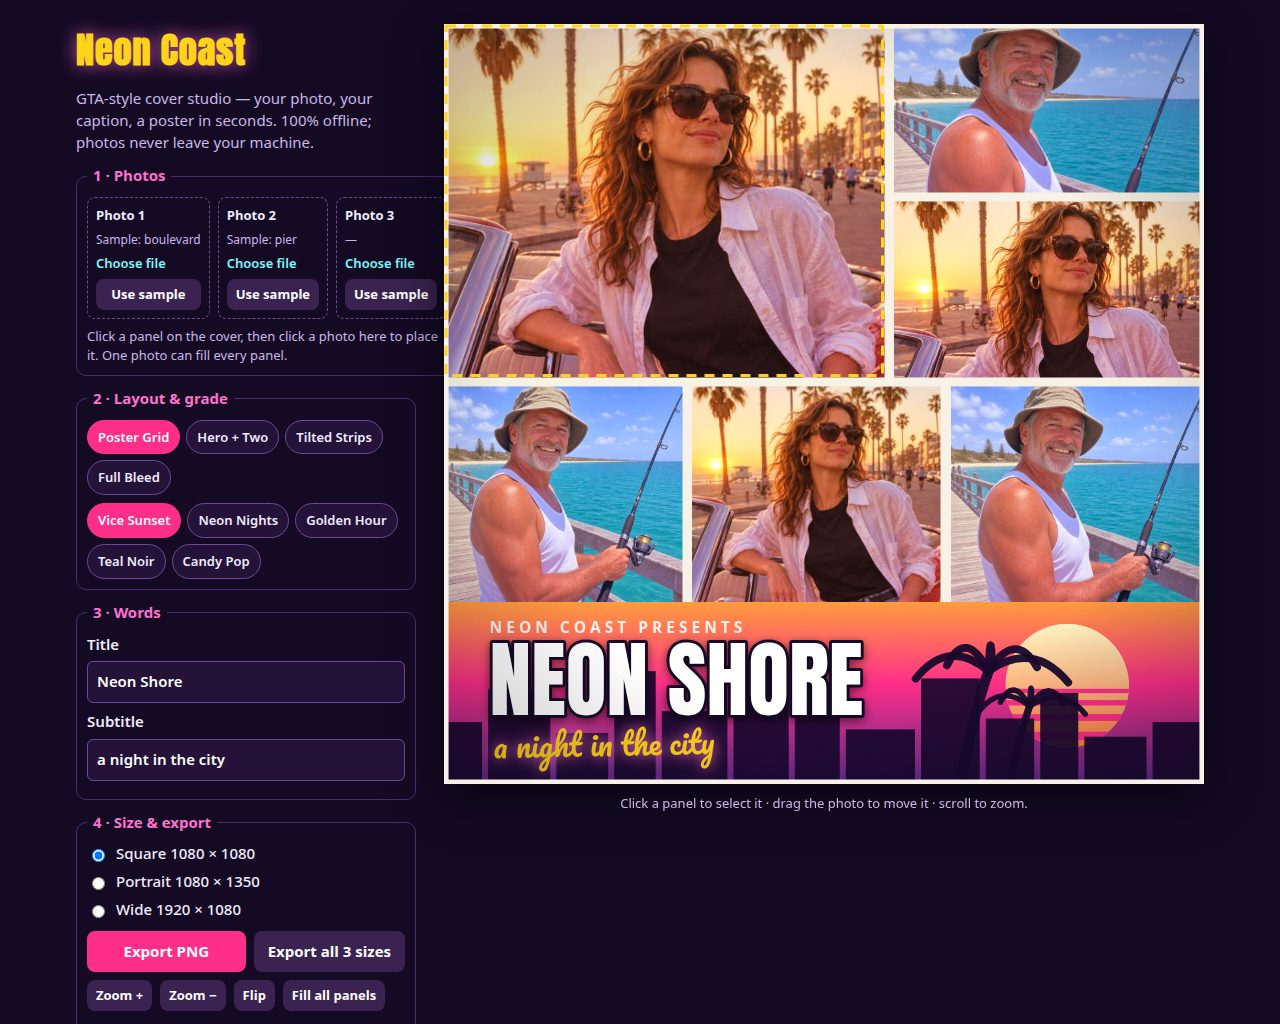
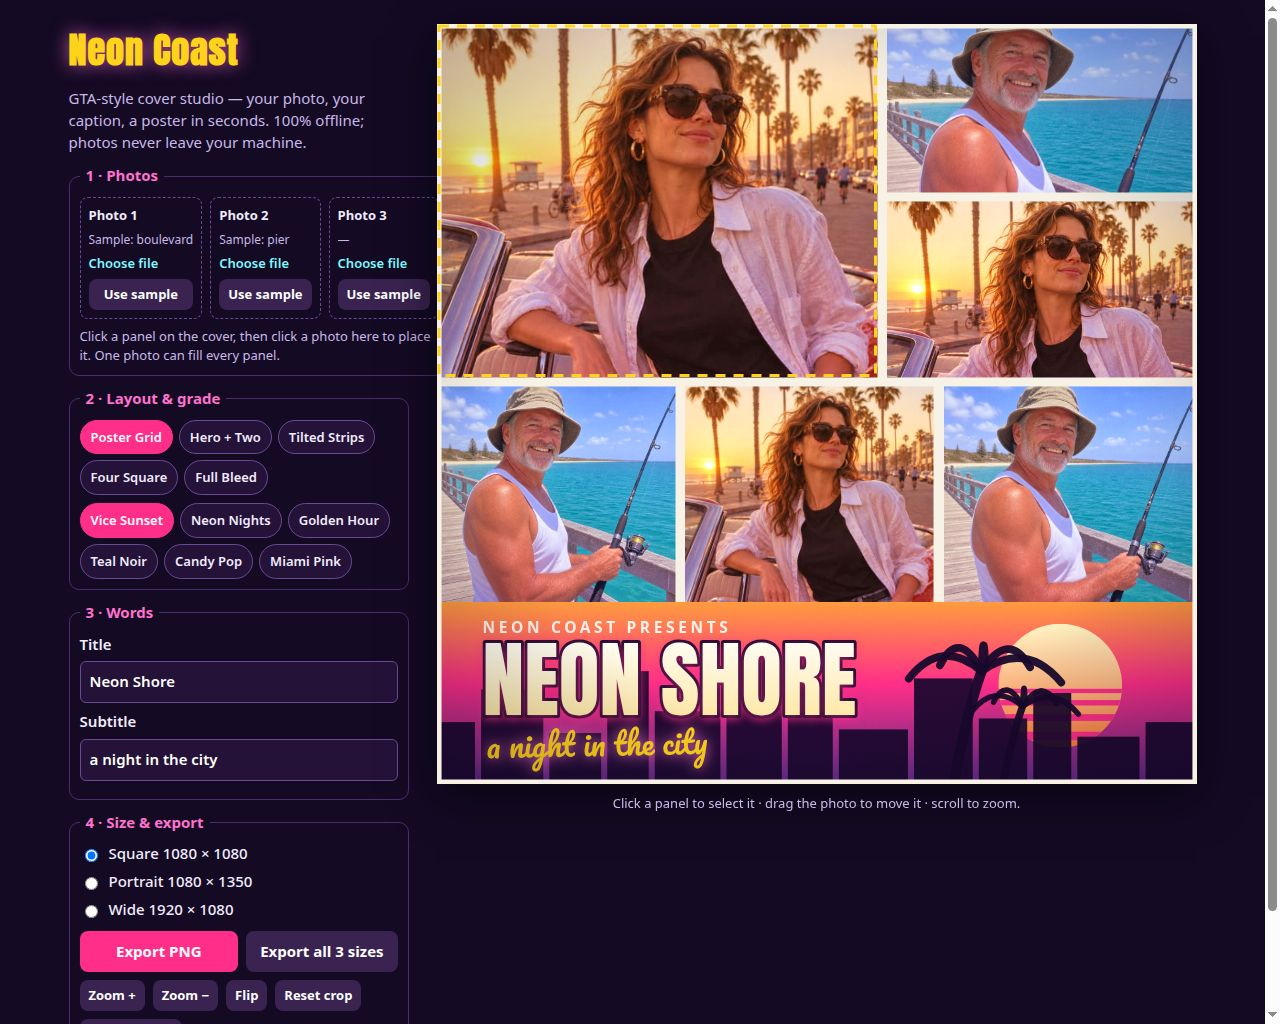
Re-record rebuild: quad layout, Miami Pink grade, two-line titles, reset crop
- cover.js: new Four Square (2x2) layout and Miami Pink grade; title
  wraps onto two balanced lines when one line would shrink too small,
  with the kicker/subtitle repositioned so nothing overlaps; title gets
  a warm gradient fill and magenta glow; kicker uses real letterSpacing
- main.js: Reset crop button for the selected panel; selection outline
  now follows tilted panels' rotation
- index.html/style.css: Reset crop button; focus-visible rings, hover
  states, touch-action none, narrow-window stacking
- shots.js/shots.json: shot 3 is now hero/Miami Pink with a long
  two-line title, shot 4 shows the new quad layout
- main.ts: pre-flight gate-cap validation before writing the dossier
- screenshots regenerated in headless Chromium and inspected visually

diff --git a/app/src/cover.js b/app/src/cover.js
@@ -11,12 +11,14 @@ export const GRADES = {
   gold: { label: 'Golden Hour', sat: 1.20, con: 1.05, wash: 'rgba(255,180,60,0.12)', top: 'rgba(255,200,90,0.10)', bottom: 'rgba(160,60,10,0.18)' },
   noir: { label: 'Teal Noir', sat: 0.85, con: 1.12, wash: 'rgba(0,180,180,0.10)', top: 'rgba(0,60,80,0.14)', bottom: 'rgba(0,0,0,0.30)' },
   candy: { label: 'Candy Pop', sat: 1.50, con: 1.04, wash: 'rgba(255,0,110,0.12)', top: 'rgba(255,120,200,0.14)', bottom: 'rgba(90,0,160,0.20)' },
+  miami: { label: 'Miami Pink', sat: 1.45, con: 1.07, wash: 'rgba(255,0,180,0.12)', top: 'rgba(255,80,200,0.16)', bottom: 'rgba(0,180,220,0.24)' },
 };
 
 export const LAYOUTS = {
   poster: { label: 'Poster Grid', panels: 6 },
   hero: { label: 'Hero + Two', panels: 3 },
   strips: { label: 'Tilted Strips', panels: 3 },
+  quad: { label: 'Four Square', panels: 4 },
   full: { label: 'Full Bleed', panels: 1 },
 };
 
@@ -27,7 +29,11 @@ const PANEL_CELLS = {
   ],
   hero: [[0, 0, 0.64, 1], [0.64, 0, 0.36, 0.49], [0.64, 0.49, 0.36, 0.51]],
   strips: [
-    [0.01, 0.02, 0.34, 0.96, -4], [0.335, 0.02, 0.34, 0.96, 3], [0.66, 0.02, 0.34, 0.96, -3],
+    [0.01, 0.01, 0.34, 0.98, -4], [0.335, 0.01, 0.34, 0.98, 3], [0.66, 0.01, 0.34, 0.98, -3],
+  ],
+  quad: [
+    [0, 0, 0.5, 0.5], [0.5, 0, 0.5, 0.5],
+    [0, 0.5, 0.5, 0.5], [0.5, 0.5, 0.5, 0.5],
   ],
   full: [[0, 0, 1, 1]],
 };
@@ -212,7 +218,46 @@ function drawTitleBand(ctx, band) {
   drawPalm(ctx, x + w * 0.745, y + h * 1.0, h / 150, 'rgba(24, 8, 44, 0.95)');
 }
 
-/** The title lettering: kicker, Anton title, Pacifico subtitle. */
+/** Splits a title into two lines at the word boundary that best balances their
+ *  widths. Returns null when the title has no useful split point. */
+function splitTitle(words, maxW, fontFor) {
+  const parts = words.split(/\s+/).filter(Boolean);
+  if (parts.length < 2) return null;
+  let best = null;
+  for (let cut = 1; cut < parts.length; cut++) {
+    const a = parts.slice(0, cut).join(' ');
+    const b = parts.slice(cut).join(' ');
+    const imbalance = Math.abs(fontFor(a).width - fontFor(b).width);
+    if (!best || imbalance < best.imbalance) best = { lines: [a, b], imbalance };
+  }
+  return best?.lines ?? null;
+}
+
+/** Draws one title line with a warm gradient fill, a dark outline and a soft
+ *  magenta glow, at the given baseline. */
+function drawTitleLine(ctx, text, x, baseline, size) {
+  ctx.font = `${size}px Anton, 'Arial Narrow', sans-serif`;
+  const grad = ctx.createLinearGradient(0, baseline - size, 0, baseline);
+  grad.addColorStop(0, '#ffffff');
+  grad.addColorStop(1, '#ffe9a8');
+  ctx.lineJoin = 'round';
+  ctx.strokeStyle = '#1a0b2e';
+  ctx.lineWidth = Math.max(2, size * 0.07);
+  ctx.shadowColor = 'rgba(255,46,136,0.55)';
+  ctx.shadowBlur = size * 0.10;
+  ctx.shadowOffsetY = size * 0.03;
+  ctx.strokeText(text, x, baseline);
+  ctx.fillStyle = grad;
+  ctx.fillText(text, x, baseline);
+  ctx.shadowColor = 'transparent';
+  ctx.shadowBlur = 0;
+  ctx.shadowOffsetY = 0;
+}
+
+/** The title lettering: kicker, Anton title, Pacifico subtitle. A title that
+ *  would shrink too small on one line wraps onto two balanced lines instead,
+ *  so long captions stay big and readable. The two-line layout moves the
+ *  kicker up and the subtitle down so nothing overlaps. */
 function drawTitleText(ctx, rect, title, subtitle) {
   const { x, y, w, h } = rect;
   const cx = x + w * 0.06;
@@ -220,34 +265,46 @@ function drawTitleText(ctx, rect, title, subtitle) {
   ctx.textAlign = 'left';
   ctx.textBaseline = 'alphabetic';
 
+  const words = (title.trim() || 'Neon Shore').toUpperCase();
+  const measure = (text, s) => {
+    ctx.font = `${s}px Anton, 'Arial Narrow', sans-serif`;
+    return ctx.measureText(text);
+  };
+  const oneLine = fitSize(words, maxW, h * 0.46, (s) => measure(words, s));
+  const lines = oneLine < h * 0.30
+    ? splitTitle(words, maxW, (t) => measure(t, h * 0.34))
+    : null;
+  const twoLineSize = lines ? Math.min(
+    fitSize(lines[0], maxW, h * 0.34, (s) => measure(lines[0], s)),
+    fitSize(lines[1], maxW, h * 0.34, (s) => measure(lines[1], s)),
+  ) : 0;
+  const twoLine = lines && twoLineSize >= h * 0.20;
+
+  // Kicker, tracked out with real letter-spacing (falls back to plain text
+  // where the canvas does not support it).
   ctx.fillStyle = 'rgba(255,255,255,0.9)';
   const kickSize = Math.max(12, h * 0.085);
   ctx.font = `700 ${kickSize}px system-ui, sans-serif`;
-  ctx.fillText('N E O N   C O A S T   P R E S E N T S', cx, y + h * 0.17);
+  try { ctx.letterSpacing = `${Math.max(2, h * 0.02)}px`; } catch { /* older canvas: plain */ }
+  ctx.fillText('NEON COAST PRESENTS', cx, y + h * (twoLine ? 0.13 : 0.17));
+  try { ctx.letterSpacing = '0px'; } catch { /* ignore */ }
 
-  const words = (title.trim() || 'Neon Shore').toUpperCase();
-  const titleSize = fitSize(words, maxW, h * 0.46, (s) => {
-    ctx.font = `${s}px Anton, 'Arial Narrow', sans-serif`;
-    return ctx.measureText(words);
-  });
-  ctx.font = `${titleSize}px Anton, 'Arial Narrow', sans-serif`;
-  ctx.lineJoin = 'round';
-  ctx.strokeStyle = '#1a0b2e';
-  ctx.lineWidth = Math.max(2, titleSize * 0.07);
-  ctx.shadowColor = 'rgba(0,0,0,0.45)';
-  ctx.shadowBlur = titleSize * 0.12;
-  ctx.shadowOffsetY = titleSize * 0.04;
-  ctx.strokeText(words, cx, y + h * 0.62);
-  ctx.fillStyle = '#ffffff';
-  ctx.fillText(words, cx, y + h * 0.62);
-  ctx.shadowColor = 'transparent';
-  ctx.shadowBlur = 0;
-  ctx.shadowOffsetY = 0;
+  if (twoLine) {
+    drawTitleLine(ctx, lines[0], cx, y + h * 0.46, twoLineSize);
+    drawTitleLine(ctx, lines[1], cx, y + h * 0.74, twoLineSize);
+    drawSubtitle(ctx, cx, y + h * 0.94, h * 0.13, subtitle);
+  } else {
+    drawTitleLine(ctx, words, cx, y + h * 0.62, oneLine);
+    drawSubtitle(ctx, cx, y + h * 0.86, h * 0.17, subtitle);
+  }
+}
 
+/** The Pacifico subtitle, tilted a touch, glowing neon yellow. */
+function drawSubtitle(ctx, x, baseline, size, subtitle) {
   const sub = (subtitle.trim() || 'a night in the city');
-  const subSize = Math.max(12, h * 0.17);
+  const subSize = Math.max(12, size);
   ctx.save();
-  ctx.translate(cx + 4, y + h * 0.86);
+  ctx.translate(x + 4, baseline);
   ctx.rotate(-0.02);
   ctx.font = `${subSize}px Pacifico, cursive`;
   ctx.shadowColor = '#ff71ce';

diff --git a/main.ts b/main.ts
@@ -1,14 +1,16 @@
 // Neon Coast Cover Studio — the entry program (Node 22, standard library only).
-// It hands the app in: copies this directory's app/ (the offline cover maker:
-// app/index.html and its ES modules, vendored fonts, no network request) and
-// screenshots/ to /output, and writes /output/dossier.json with the vendored
-// make.fun library. The app itself lives in app/src/cover.js (the cover engine)
-// and app/src/main.js (the editor); the screenshots are the app's own renders,
+// It hands the app in: it first checks the entry against the gate's own caps
+// (3–4 screenshots, each at most 256 KiB; app/ at most 993 files and 48 MiB),
+// then copies this directory's app/ (the offline cover maker: app/index.html
+// and its ES modules, vendored fonts, no network request) and screenshots/ to
+// /output, and writes /output/dossier.json with the vendored make.fun library.
+// The app itself lives in app/src/cover.js (the cover engine) and
+// app/src/main.js (the editor); the screenshots are the app's own renders,
 // taken in headless Chromium from the ?shot= scenes in app/src/shots.js.
 // Outside the grader's container, MAKEFUN_OUTPUT_DIR stands in for /output:
 //   mkdir -p out && MAKEFUN_OUTPUT_DIR=out node main.ts
 
-import { cpSync, existsSync, mkdirSync, writeFileSync } from 'node:fs';
+import { cpSync, existsSync, mkdirSync, readdirSync, statSync, writeFileSync } from 'node:fs';
 import { join } from 'node:path';
 import { fileURLToPath } from 'node:url';
 import { buildDossier } from './vendor/makefun-app.ts';
@@ -16,10 +18,43 @@ import { buildDossier } from './vendor/makefun-app.ts';
 const here = fileURLToPath(new URL('.', import.meta.url));
 const out = process.env.MAKEFUN_OUTPUT_DIR ?? '/output';
 
+/** Walks a directory tree, returning [fileCount, totalBytes] of regular files. */
+function treeSize(root) {
+  let files = 0;
+  let bytes = 0;
+  for (const entry of readdirSync(root, { withFileTypes: true })) {
+    const path = join(root, entry.name);
+    if (entry.isDirectory()) {
+      const [f, b] = treeSize(path);
+      files += f;
+      bytes += b;
+    } else if (entry.isFile()) {
+      files += 1;
+      bytes += statSync(path).size;
+    }
+  }
+  return [files, bytes];
+}
+
+// Pre-flight: refuse to hand in an entry the gate would refuse, with the
+// reason printed instead of a silent bad dossier.
+const shotsDir = join(here, 'screenshots');
+if (!existsSync(shotsDir)) throw new Error('screenshots/ is missing: take the 4 shots first');
+const shots = readdirSync(shotsDir).filter((n) => !n.startsWith('.'));
+if (shots.length < 3 || shots.length > 4) throw new Error(`screenshots/ holds ${shots.length} images, need 3 or 4`);
+for (const name of shots) {
+  if (!/^[A-Za-z0-9._-]{1,128}$/.test(name) || name.startsWith('-')) throw new Error(`bad screenshot name: ${name}`);
+  const size = statSync(join(shotsDir, name)).size;
+  if (size > 262144) throw new Error(`screenshot ${name} is ${size} bytes, over the 256 KiB cap`);
+}
+const [appFiles, appBytes] = treeSize(join(here, 'app'));
+if (appFiles > 993) throw new Error(`app/ holds ${appFiles} files, over the 993 cap`);
+if (appBytes > 50331648) throw new Error(`app/ is ${appBytes} bytes, over the 48 MiB cap`);
+
 mkdirSync(out, { recursive: true });
 cpSync(join(here, 'app'), join(out, 'app'), { recursive: true });
 mkdirSync(join(out, 'screenshots'), { recursive: true });
-if (existsSync(join(here, 'screenshots'))) cpSync(join(here, 'screenshots'), join(out, 'screenshots'), { recursive: true });
+cpSync(shotsDir, join(out, 'screenshots'), { recursive: true });
 
 // The scorer's own caps (reference/gate.json): only text_max_bytes shapes the bytes; the others refuse an entry the
 // scorer would refuse (more than 4 screenshots or one over 256 KiB; more than 993 files in app/ or 48 MiB of app
@@ -35,3 +70,5 @@ writeFileSync(
     app_path_max_bytes: 1000,
   }),
 );
+
+console.log(`dossier written: app/ ${appFiles} files, ${appBytes} bytes; screenshots/ ${shots.length} files`);

diff --git a/app/style.css b/app/style.css
@@ -15,28 +15,48 @@ input[type=file] { display: none; }
 
 .slots { display: grid; grid-template-columns: repeat(3, 1fr); gap: 8px; }
 .slot { border: 1px dashed #6b4a94; border-radius: 8px; padding: 8px; cursor: pointer; display: flex; flex-direction: column; gap: 6px; }
+.slot:hover { border-color: #9a6fc0; }
 .slot.active { border-style: solid; border-color: #ffd319; box-shadow: 0 0 0 1px #ffd319; }
 .slot-label { font-weight: 700; font-size: 13px; }
 .slot-name { font-size: 12px; color: #c9b8e8; overflow: hidden; text-overflow: ellipsis; white-space: nowrap; }
 .file-label { margin: 0; font-size: 13px; color: #7df9ff; cursor: pointer; }
+.file-label:hover { text-decoration: underline; }
 .hint { margin: 8px 0 0; font-size: 13px; color: #c9b8e8; }
 
 .chips { display: flex; flex-wrap: wrap; gap: 6px; margin-bottom: 8px; }
 .chips:last-child { margin-bottom: 0; }
 .chip { font: inherit; font-size: 13px; font-weight: 600; padding: 7px 10px; border: 1px solid #6b4a94; border-radius: 20px; background: #241238; color: #f2ecff; cursor: pointer; }
+.chip:hover { border-color: #ff71ce; color: #fff; }
 .chip.active { background: #ff2e88; border-color: #ff2e88; color: #fff; }
 
 .sizes { display: flex; flex-direction: column; gap: 6px; margin-bottom: 10px; }
 .sizes label { flex-direction: row; align-items: center; gap: 8px; font-weight: 500; margin: 0; }
 .row { display: flex; gap: 8px; margin-top: 8px; flex-wrap: wrap; }
 button { font: inherit; font-weight: 700; padding: 10px 14px; border: 0; border-radius: 8px; background: #3a2350; color: #fff; cursor: pointer; }
+button:hover { background: #4a2d66; filter: brightness(1.1); }
 button.primary { background: #ff2e88; flex: 1; }
+button.primary:hover { background: #ff4d9c; }
 button.mini { padding: 6px 9px; font-size: 13px; white-space: nowrap; }
 #status { margin: 10px 0 0; font-size: 13px; color: #7df9ff; min-height: 1.4em; }
 
+/* Keyboard users get a visible ring everywhere the mouse gets a hover. */
+button:focus-visible, .chip:focus-visible, .slot:focus-visible,
+input[type=text]:focus-visible, .file-label:focus-visible {
+  outline: 2px solid #ffd319;
+  outline-offset: 2px;
+}
+
 .stage { display: flex; flex-direction: column; align-items: center; gap: 10px; position: sticky; top: 24px; }
-.stage canvas { max-width: min(78vh, 860px); max-height: 78vh; width: auto; height: auto; box-shadow: 0 12px 44px rgba(0, 0, 0, 0.55); cursor: crosshair; }
+.stage canvas { max-width: min(78vh, 860px); max-height: 78vh; width: auto; height: auto; box-shadow: 0 12px 44px rgba(0, 0, 0, 0.55); cursor: crosshair; touch-action: none; }
 .stage .hint { margin: 0; }
+
+/* Narrow windows: stack the controls above the preview instead of squeezing. */
+@media (max-width: 960px) {
+  .app { flex-direction: column; align-items: center; padding: 16px; gap: 16px; }
+  .controls { width: 100%; max-width: 560px; }
+  .stage { position: static; width: 100%; }
+  .stage canvas { max-width: 100%; max-height: none; }
+}
 
 body.shot-cover { background: #f7f1e6; }
 body.shot-cover .controls, body.shot-cover .stage .hint { display: none; }

diff --git a/app/src/main.js b/app/src/main.js
@@ -44,7 +44,8 @@ function redraw() {
   drawSelection(ctx);
 }
 
-/** The dashed outline of the selected panel, drawn over the preview. */
+/** The dashed outline of the selected panel, drawn over the preview.
+ *  Tilted panels get a tilted outline, matching the panel's rotation. */
 function drawSelection(ctx) {
   if (document.body.classList.contains('shot-cover')) return;
   const { panels } = layoutPanels(state.layout, canvas.width, canvas.height);
@@ -54,7 +55,13 @@ function drawSelection(ctx) {
   ctx.setLineDash([10, 8]);
   ctx.lineWidth = 3;
   ctx.strokeStyle = '#ffd319';
-  ctx.strokeRect(p.x + 2, p.y + 2, p.w - 4, p.h - 4);
+  if (p.rot) {
+    ctx.translate(p.x + p.w / 2, p.y + p.h / 2);
+    ctx.rotate((p.rot * Math.PI) / 180);
+    ctx.strokeRect(-p.w / 2 + 2, -p.h / 2 + 2, p.w - 4, p.h - 4);
+  } else {
+    ctx.strokeRect(p.x + 2, p.y + 2, p.w - 4, p.h - 4);
+  }
   ctx.restore();
 }
 
@@ -160,13 +167,24 @@ document.getElementById('sizes').addEventListener('change', (e) => {
   redraw();
 });
 
-// Panel tools: zoom, flip, fill-all.
+// Panel tools: zoom, flip, fill-all, reset crop.
 document.getElementById('zoom-in').addEventListener('click', () => zoomSelected(1.25));
 document.getElementById('zoom-out').addEventListener('click', () => zoomSelected(0.8));
 document.getElementById('flip').addEventListener('click', () => {
   const p = state.panels[selectedPanel];
   p.flip = !p.flip;
   redraw();
+});
+document.getElementById('reset-crop').addEventListener('click', () => {
+  const p = state.panels[selectedPanel];
+  const img = state.photos[p.photo];
+  const { panels } = layoutPanels(state.layout, canvas.width, canvas.height);
+  const geo = panels[selectedPanel];
+  p.zoom = 1; p.ox = 0.5; p.flip = false;
+  // Re-aim a portrait photo at the face when the panel is wider than tall.
+  p.oy = img && geo && img.naturalHeight > img.naturalWidth && geo.w > geo.h ? 0.85 : 0.5;
+  redraw();
+  say(`Panel ${selectedPanel + 1} crop reset.`);
 });
 document.getElementById('fill-all').addEventListener('click', () => {
   const p = state.panels[selectedPanel];

diff --git a/app/src/shots.js b/app/src/shots.js
@@ -23,7 +23,8 @@ export async function runShot(shot, query, api) {
   document.querySelectorAll('#grades .chip').forEach((el) => el.classList.toggle('active', el.dataset.grade === grade));
 
   // Two sample photos, alternating across the panels. Aim each panel's crop at
-  // the upper part of its photo, where faces usually are.
+  // the upper part of its photo, where faces usually are. The quad layout gets
+  // two photos per side so its four panels still alternate.
   await setPhotoSlot(0, `samples/${photoA}.jpg`, `Sample: ${photoA}`);
   await setPhotoSlot(1, `samples/${photoB}.jpg`, `Sample: ${photoB}`);
   state.panels.forEach((p, i) => {

diff --git a/app/index.html b/app/index.html
@@ -64,6 +64,7 @@
         <button id="zoom-in" type="button" class="mini">Zoom +</button>
         <button id="zoom-out" type="button" class="mini">Zoom −</button>
         <button id="flip" type="button" class="mini">Flip</button>
+        <button id="reset-crop" type="button" class="mini">Reset crop</button>
         <button id="fill-all" type="button" class="mini">Fill all panels</button>
       </div>
       <p id="status" role="status">Pick a photo and a caption — the cover updates live.</p>

diff --git a/README.md b/README.md
@@ -11,16 +11,17 @@ City neon-sunset grade — exported as a PNG to share. Made for the
 
 ## What it does
 
-- **Multi-panel posters:** four layouts — Poster Grid (6 panels), Hero + Two,
-  Tilted Strips, and Full Bleed — with a sunset title band (striped sun,
-  skyline and palm silhouettes drawn in code).
+- **Multi-panel posters:** five layouts — Poster Grid (6 panels), Hero + Two,
+  Tilted Strips, Four Square (2 × 2), and Full Bleed — with a sunset title
+  band (striped sun, skyline and palm silhouettes drawn in code).
 - **Any photo:** load up to three of your own photos, place each one in any
-  panel, drag to pan and scroll to zoom, flip, or fill every panel with one
-  photo. Two free sample photos are included.
-- **Neon grades:** five colour grades — Vice Sunset, Neon Nights, Golden Hour,
-  Teal Noir, Candy Pop — plus film grain and a vignette.
+  panel, drag to pan and scroll to zoom, flip, reset a panel's crop, or fill
+  every panel with one photo. Two free sample photos are included.
+- **Neon grades:** six colour grades — Vice Sunset, Neon Nights, Golden Hour,
+  Teal Noir, Candy Pop, Miami Pink — plus film grain and a vignette.
 - **Bold lettering:** the title in Anton (SIL Open Font License, vendored under
-  `app/fonts/`), the subtitle in Pacifico neon script. All art is original —
+  `app/fonts/`), the subtitle in Pacifico neon script. A long title wraps onto
+  two balanced lines instead of shrinking away. All art is original —
   no Rockstar logo, artwork or fonts.
 - **Fast export:** one click exports a PNG in 1080 × 1080, 1080 × 1350 or
   1920 × 1080 — or all three at once.
